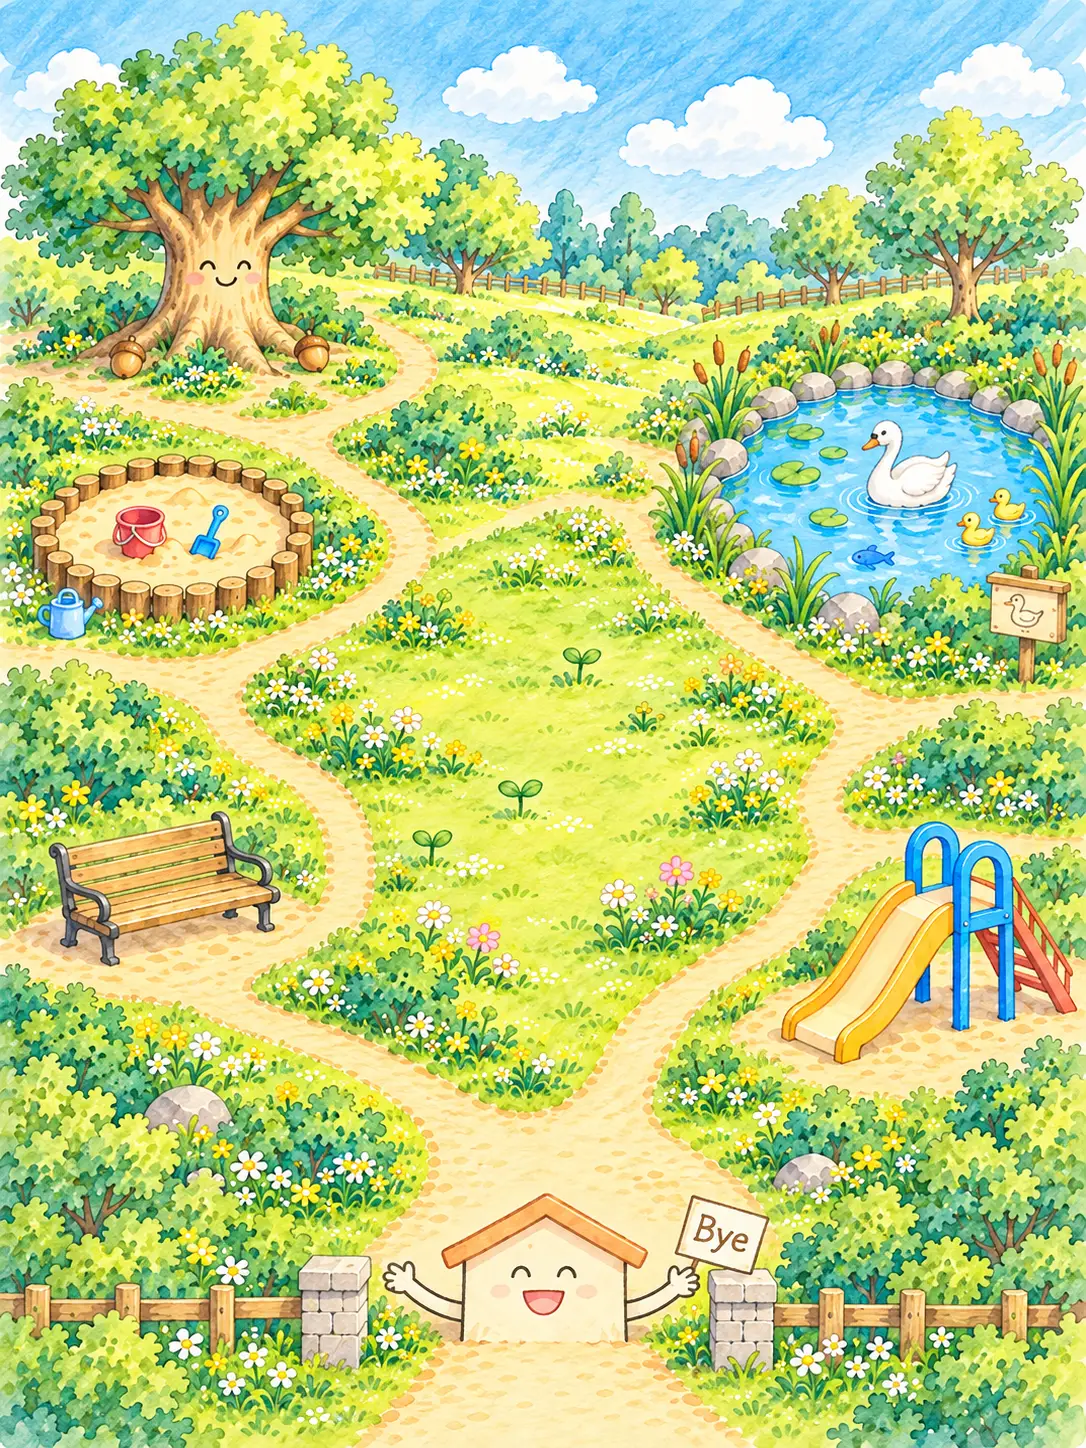
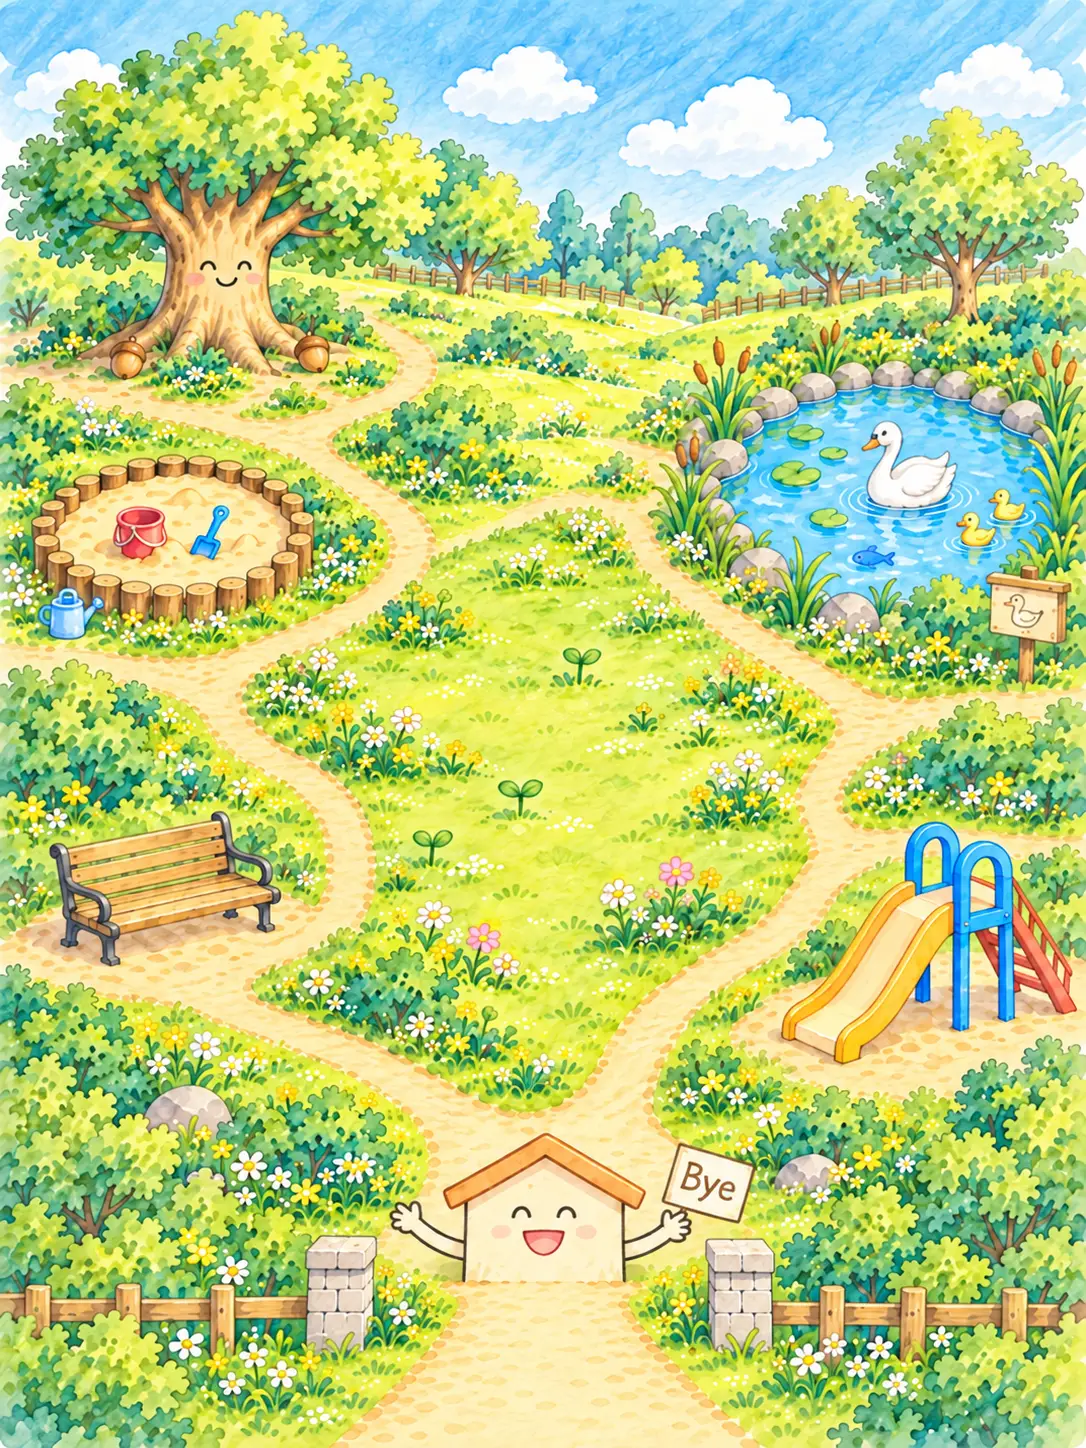
fix: 新しい公園マップに合わせて行き先ボタンの位置と矢印キーの移動先を調整 (#216)
- PC用・スマホ用の地図の絵に合わせて、各行き先ボタンの位置を調整
- スマホの「おうちへ帰る」を地図の内側のいちばん下に配置
- スマホ用の地図の絵を差しかえ
- 矢印キー：おうちへ帰る ⇄ 芝生広場 を ↑↓、きゅうけい・すべり台 からは ← → で行くように変更
- 矢印キー：秘密の小道 ⇄ どんぐりの木・芝生広場・池 を ↑↓ で行き来し、↓ では来たほうへ戻るように変更

diff --git a/data/parkMap.ts b/data/parkMap.ts
@@ -14,7 +14,9 @@
 
      ・← → … 同じ高さ（または いちばん近い高さ）のとなりへ
      ・↑ ↓ … できるだけ同じ列の中で
-     ・おうちへ帰る へは、きゅうけい・すべり台 の ↓ からだけ行ける（まちがえてすぐ選ばないように）
+     ・おうちへ帰る へは、芝生広場 の ↓・きゅうけい の →・すべり台 の ← から行く（きゅうけい・すべり台 の ↓ では行かない）
+     ・おうちへ帰る の ↑ は 芝生広場 へ（きゅうけい・すべり台 へは ← → で戻る）
+     ・秘密の小道 と どんぐりの木・芝生広場・池 は ↑ ↓ で行き来する（秘密の小道の ↓ は、来たほうへ戻る）
 
    ■ 書きかた
      場所ごとに、向き → 移動先の候補 を書く
@@ -38,16 +40,18 @@ export const parkMapStartPlace: GameEvent = 'grassArea';
 export const parkMapMoves: Record<ParkMapSpot, Partial<Record<ParkMapDirection, ParkMapSpot[]>>> = {
   /* 左上 */
   acornArea: {
-    // 右どなりの芝生広場へ（秘密の小道から来たときだけ、秘密の小道へ戻る → parkMapReturnMoves）
-    right: ['grassArea', 'secretSpot'],
+    // 右どなりの芝生広場へ（秘密の小道へは ↑ で行く）
+    right: ['grassArea'],
+    // 秘密の小道へ（まだ出ていないときは動かない）
+    up: ['secretSpot'],
     down: ['sandbox'],
   },
 
   /* 右上 */
   secretSpot: {
     left: ['acornArea'],
-    // 芝生広場の ↑ で来るので、↓ で芝生広場へ戻る
-    down: ['grassArea'],
+    // どんぐりの木・芝生広場・池 の ↑ で来るので、↓ で来たほうへ戻る（わからないときは 芝生広場 → parkMapReturnMoves）
+    down: ['grassArea', 'acornArea', 'pond'],
   },
 
   /* まん中 */
@@ -57,7 +61,8 @@ export const parkMapMoves: Record<ParkMapSpot, Partial<Record<ParkMapDirection, 
     // ふだんは砂場へ（どんぐりの木から来たときだけ、来たほうへ戻る）
     left: ['sandbox', 'acornArea'],
     right: ['pond'],
-    // ↓ には何も書かない（おうちへ帰る を、まちがえてすぐ選ばないように）
+    // すぐ下の おうちへ帰る へ
+    down: ['goal'],
   },
 
   /* 左の中ほど */
@@ -78,25 +83,23 @@ export const parkMapMoves: Record<ParkMapSpot, Partial<Record<ParkMapDirection, 
   /* 左下 */
   restArea: {
     up: ['sandbox'],
-    // 同じ段の右はしの すべり台へ
-    right: ['slide'],
-    // すぐ下の段の おうちへ帰る へ
-    down: ['goal'],
+    // 右どなりの おうちへ帰る へ（すべり台へは、おうちへ帰る をはさんで行く）
+    right: ['goal'],
+    // ↓ には何も書かない（おうちへ帰る へは、となりどうしなので ← → で行く）
   },
 
   /* 右下 */
   slide: {
     up: ['pond'],
-    // 同じ段の左はしの きゅうけいへ
-    left: ['restArea'],
-    // すぐ下の段の おうちへ帰る へ
-    down: ['goal'],
+    // 左どなりの おうちへ帰る へ（きゅうけいへは、おうちへ帰る をはさんで行く）
+    left: ['goal'],
+    // ↓ には何も書かない（おうちへ帰る へは、となりどうしなので ← → で行く）
   },
 
   /* いちばん下のまん中（おうちへ帰る ＝ ゴール。門のすぐ上） */
   goal: {
-    // 来たほうへ戻る（わからないときは きゅうけい へ）
-    up: ['restArea', 'slide'],
+    // すぐ上の芝生広場へ
+    up: ['grassArea'],
     left: ['restArea'],
     right: ['slide'],
   },
@@ -104,15 +107,13 @@ export const parkMapMoves: Record<ParkMapSpot, Partial<Record<ParkMapDirection, 
 
 /* 「来たほうへ戻る」向き
    ここに書いた場所・向きは、候補の中に「直前にいた場所」があれば、1つ目より先にそこへ戻る
-   例）すべり台 →↓→ おうちへ帰る →↑→ すべり台
+   例）池 →↑→ 秘密の小道 →↓→ 池
    （直前にいた場所は useKeyboardControls.ts の moveEntranceOnMap() が覚える） */
 export const parkMapReturnMoves: Partial<Record<ParkMapSpot, ParkMapDirection[]>> = {
-  // どんぐりの木の → … ふだんは芝生広場。秘密の小道から ← で来たときだけ、秘密の小道へ戻る
-  acornArea: ['right'],
   // 芝生広場の ← … どんぐりの木／砂場 のうち、来たほうへ戻る（どちらでもなければ 砂場）
   grassArea: ['left'],
-  // おうちへ帰る の ↑ … きゅうけい／すべり台 のうち、来たほうへ戻る（どちらでもなければ きゅうけい）
-  goal: ['up'],
+  // 秘密の小道の ↓ … どんぐりの木／芝生広場／池 のうち、来たほうへ戻る（どれでもなければ 芝生広場）
+  secretSpot: ['down'],
 };
 
 /* 公園入口の地図の絵（PC用は横長、スマホ用は 3:4。画面の幅が spMaxWidth 以下のときにスマホ用）

diff --git a/assets/css/game/park-map.css b/assets/css/game/park-map.css
@@ -139,52 +139,52 @@
 /* ===== 行き先ごとの置き場所 =====
    絵をかくしすぎないよう、ボタンはその場所の絵のすぐ下（看板のような位置）に置く */
 
-/* 左上：どんぐりの木（大きな木の根もとの、どんぐりが落ちている土の輪の下） */
+/* 左上：どんぐりの木（大きな木の根もと、どんぐりが落ちているところの下） */
 .park-map__spot--acorn {
-  --x: 19.5%;
-  --y: 33%;
+  --x: 15%;
+  --y: 35%;
 }
 
-/* 上の奥：秘密の小道（芝生広場の右上から、奥の木立へ続く小道の上。見つけたあとは こもれびの広場） */
+/* 上の奥：秘密の小道（芝生広場の上から、奥の木立へ続く小道の上。見つけたあとは こもれびの広場） */
 .park-map__spot--secret {
-  --x: 63%;
-  --y: 13%;
+  --x: 56%;
+  --y: 24%;
 }
 
 /* まん中：芝生広場（まん中の広い芝生） */
 .park-map__spot--grass {
-  --x: 51%;
-  --y: 44%;
+  --x: 50.5%;
+  --y: 48%;
 }
 
 /* 左の中ほど：砂場（丸い砂場のすぐ下） */
 .park-map__spot--sandbox {
-  --x: 18.5%;
-  --y: 57%;
+  --x: 15%;
+  --y: 60%;
 }
 
 /* 右の中ほど：池（右上の池のすぐ下。すべり台の上の芝生） */
 .park-map__spot--pond {
-  --x: 83%;
-  --y: 53.5%;
+  --x: 83.5%;
+  --y: 54.5%;
 }
 
 /* 左下：きゅうけい（ベンチのすぐ下。ベンチの絵が見えるようにする） */
 .park-map__spot--rest {
-  --x: 17%;
-  --y: 79%;
+  --x: 13%;
+  --y: 85%;
 }
 
 /* 右下：すべり台（すべり台のすぐ下。すべり台の絵が見えるようにする。きゅうけい と同じ段） */
 .park-map__spot--slide {
-  --x: 84%;
-  --y: 80.5%;
+  --x: 86.5%;
+  --y: 87%;
 }
 
-/* いちばん下のまん中：おうちへ帰る（門の柱のあいだ。門の柱は少しかくれてよい） */
+/* 下のまん中：おうちへ帰る（門の家のすぐ上の道。家の顔をかくさないように、家の下ではなく上に置く） */
 .park-map__spot--goal {
   --x: 50%;
-  --y: 91.5%;
+  --y: 79.5%;
 }
 
 /* ===== 見つけたばかりの秘密の小道（NEW の印・ゆっくり光る） =====
@@ -352,51 +352,55 @@
     font-size: 9.5px;
   }
 
-  /* 左上：どんぐりの木（木の根もとの、土の輪の下） */
+  /* 左上：どんぐりの木（木の根もとの下） */
   .park-map__spot--acorn {
-    --x: 22%;
-    --y: 30%;
+    --x: 25%;
+    --y: 29%;
   }
 
-  /* 上の奥：秘密の小道（芝生広場の上から、右上の奥の木立へ続く小道の上） */
+  /* 上の奥：秘密の小道（芝生広場の上から、奥の柵へ続く小道の上） */
   .park-map__spot--secret {
-    --x: 62%;
-    --y: 9%;
+    --x: 57%;
+    --y: 16.5%;
   }
 
   /* まん中：芝生広場（まん中の広い芝生） */
   .park-map__spot--grass {
-    --x: 56%;
-    --y: 43%;
+    --x: 50%;
+    --y: 57%;
   }
 
   /* 左の中ほど：砂場（丸い砂場のすぐ下） */
   .park-map__spot--sandbox {
-    --x: 18%;
-    --y: 50%;
+    --x: 17%;
+    --y: 47.5%;
   }
 
   /* 右の中ほど：池（右上の池のすぐ下） */
   .park-map__spot--pond {
-    --x: 85%;
-    --y: 45%;
+    --x: 80%;
+    --y: 46.5%;
   }
 
   /* 左下：きゅうけい（ベンチのすぐ下） */
   .park-map__spot--rest {
-    --x: 19%;
-    --y: 73%;
+    --x: 22.5%;
+    --y: 69.5%;
   }
 
   /* 右下：すべり台（すべり台のすぐ下） */
   .park-map__spot--slide {
     --x: 81%;
-    --y: 77%;
+    --y: 76.5%;
   }
 
-  /* いちばん下のまん中：おうちへ帰る（門の柱のあいだ。門の柱は少しかくれてよい） */
+  /* いちばん下のまん中：おうちへ帰る（門の家の下の道。家の顔は見えるようにする）
+     地図の内側で いちばん下に置くため、ここだけ --y をボタンのまん中ではなく下はしの位置にする
+     （ボタンの高さは画面の幅で変わるので、% で決めると、せまい画面では地図の下へはみ出す） */
   .park-map__spot--goal {
-    --x: 51%;
-    --y: 91%;
+    --x: 52%;
+    --y: 100%;
+
+    transform: translate(-50%, calc(-100% - 2px));
   }
 }
